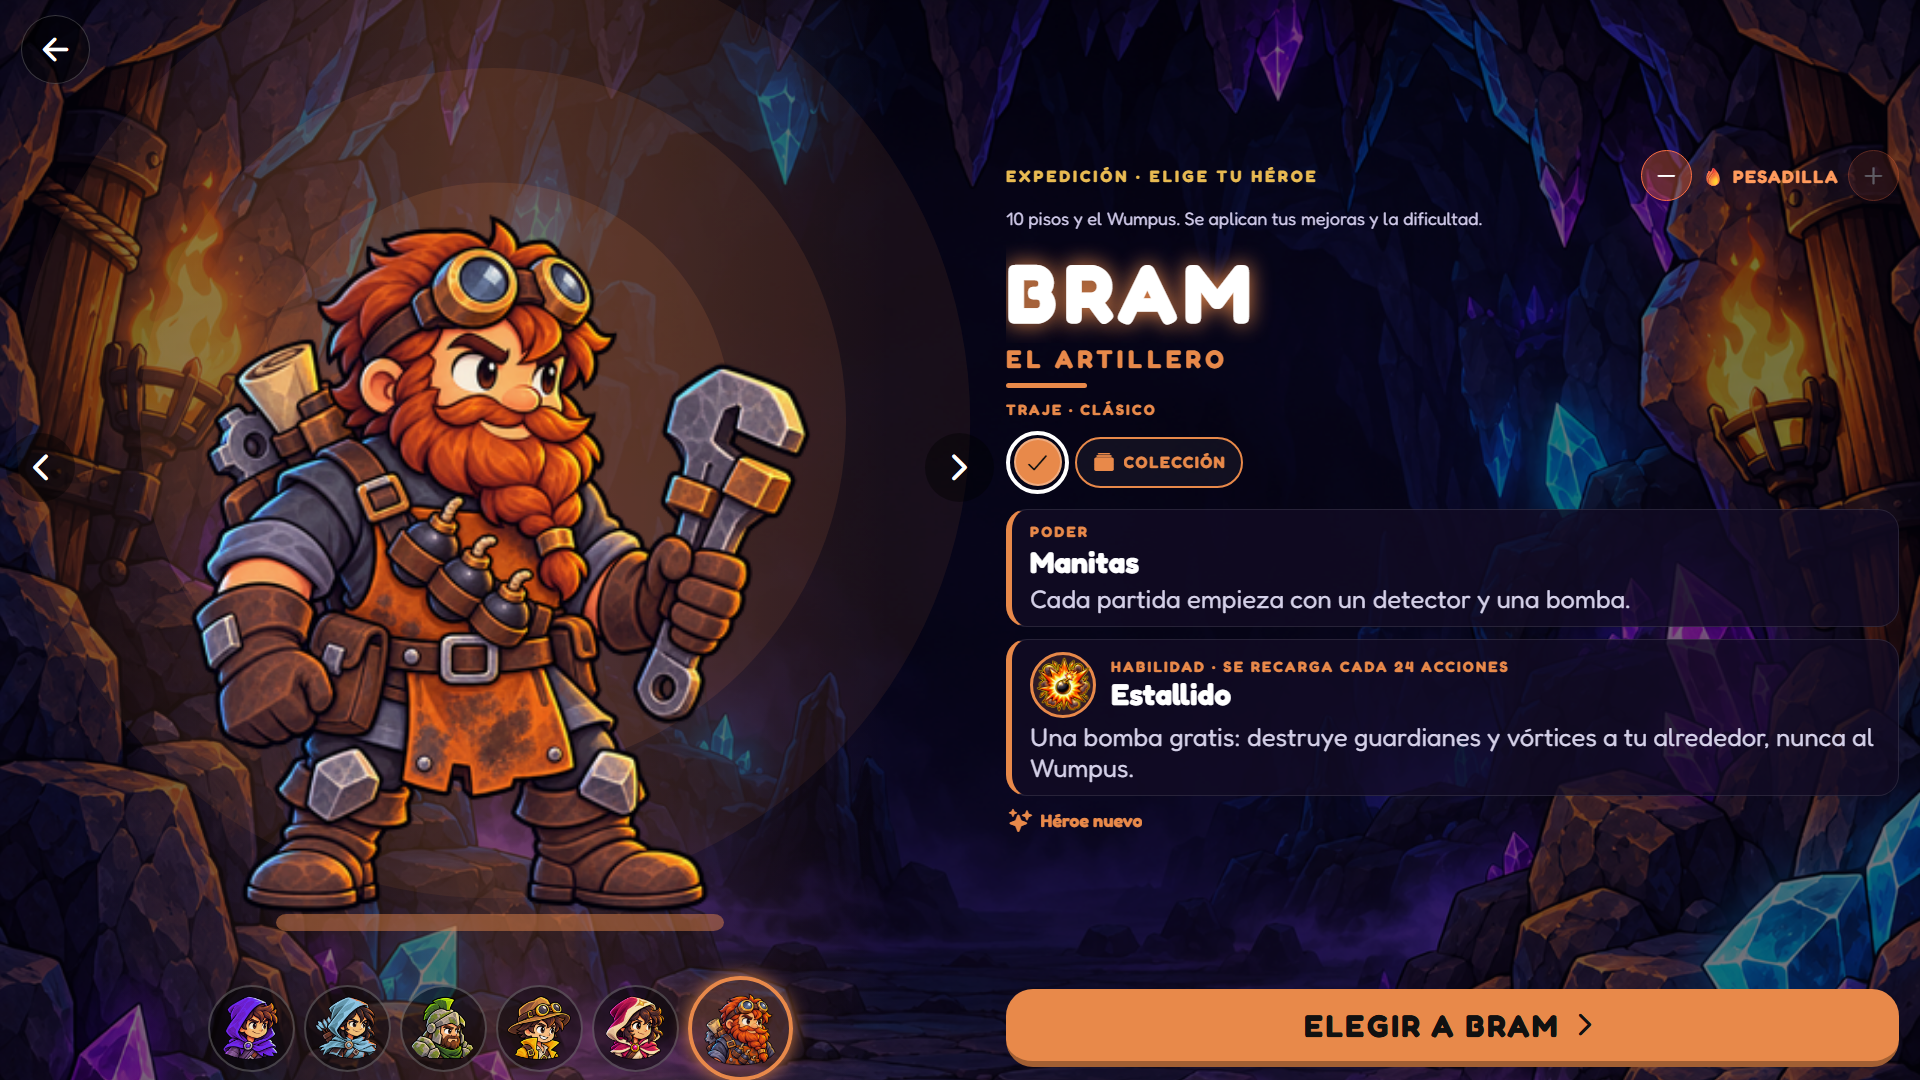
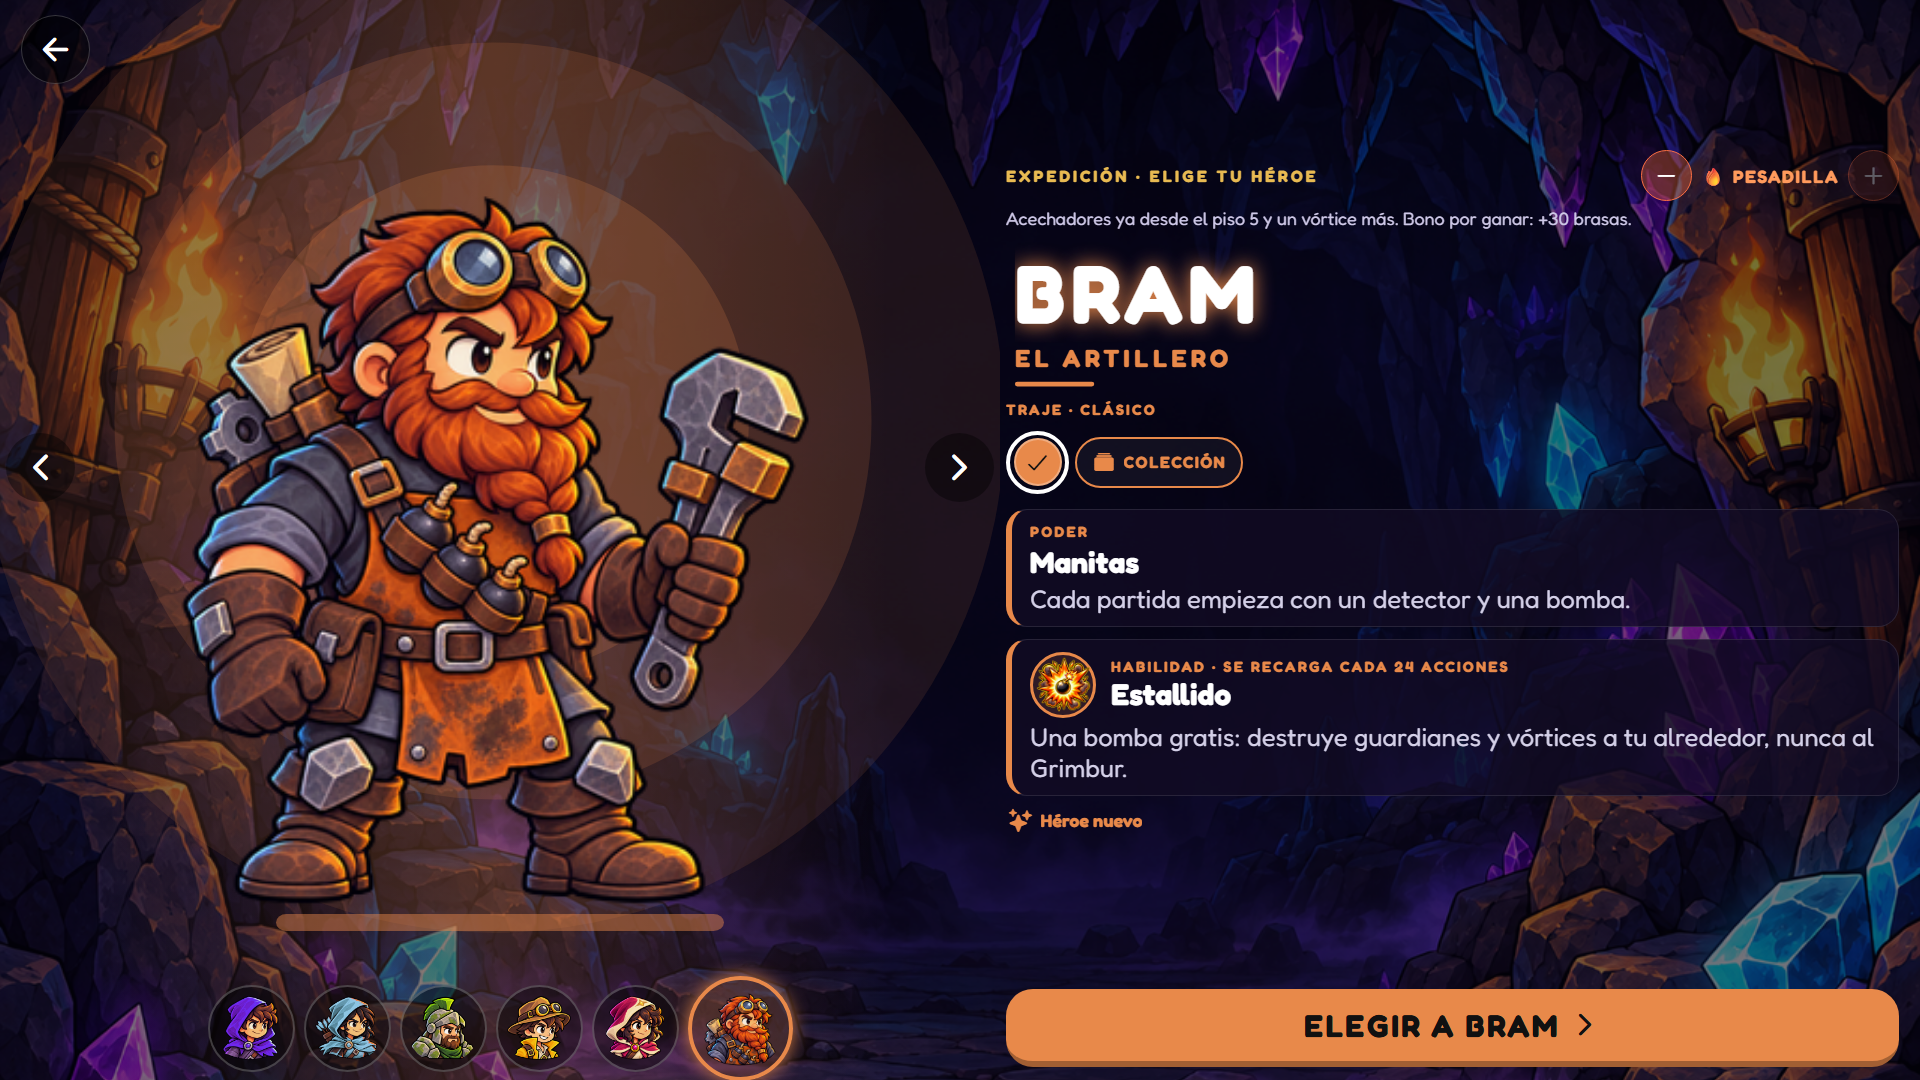
feat(polish): hero breathing and a fully refreshed Grimbur store kit
- The hero breathes while standing still (slow 4% vertical swell, off with
  reduced motion); the step pop and pose swap already existed.
- Feature graphic says GRIMBUR - CAVE OF CLUES (subtitle was the old brand).
- All eight Play screenshots recaptured at 1920x1080 in Spanish with the new
  brand, gold palette and the new animated Grimbur: the two board shots are
  now reproducible via LessonScreen dev params, recorded in the README
  (before, their recipe lived only in a lost commit message).
- 01_wumpus_and_guardians.png renamed to 01_grimbur_and_guardians.png.

tsc clean, 871 tests green.

diff --git a/src/ui/components/BoardView.tsx b/src/ui/components/BoardView.tsx
@@ -107,6 +107,23 @@ const BoardView: React.FC<Props> = memo(
     // Player move animation
     const playerScale = useRef(new Animated.Value(1)).current;
 
+    // The hero breathes while standing still: a slow, tiny vertical swell (off when the player asked for calm).
+    const heroBreath = useRef(new Animated.Value(1)).current;
+    useEffect(() => {
+      if (calm) {
+        heroBreath.setValue(1);
+        return;
+      }
+      const loop = Animated.loop(
+        Animated.sequence([
+          Animated.timing(heroBreath, { toValue: 1.04, duration: 1100, easing: Easing.inOut(Easing.sin), useNativeDriver: true }),
+          Animated.timing(heroBreath, { toValue: 1, duration: 1100, easing: Easing.inOut(Easing.sin), useNativeDriver: true }),
+        ]),
+      );
+      loop.start();
+      return () => loop.stop();
+    }, [calm, heroBreath]);
+
     // A new floor or a restart puts the hero on its start tile: it appears there instead of sliding in from the old spot.
     const lastFloor = useRef({ level, seen: visited.length });
     useEffect(() => {
@@ -358,7 +375,7 @@ const BoardView: React.FC<Props> = memo(
           >
             {/* Both poses stay mounted and are swapped by opacity: swapping the image source would flash */}
             {/* The art is drawn facing right: mirror it for left; up/down lean away from / toward the viewer. */}
-            <View
+            <Animated.View
               style={{
                 width: tileSize * 0.8,
                 height: tileSize * 0.8,
@@ -366,6 +383,7 @@ const BoardView: React.FC<Props> = memo(
                   { scaleX: lastSide.current === "left" ? -1 : 1 },
                   { translateY: currentFacing === "up" ? -tileSize * 0.06 : currentFacing === "down" ? tileSize * 0.05 : 0 },
                   { scale: currentFacing === "up" ? 0.94 : currentFacing === "down" ? 1.05 : 1 },
+                  { scaleY: heroBreath },
                 ],
               }}
             >
@@ -381,7 +399,7 @@ const BoardView: React.FC<Props> = memo(
                   source={attackSource}
                 />
               )}
-            </View>
+            </Animated.View>
           </Animated.View>
 
           {flying && (() => {

diff --git a/scripts/makeFeatureGraphic.py b/scripts/makeFeatureGraphic.py
@@ -15,7 +15,7 @@ FONTS = os.path.join(ROOT, 'node_modules', '@expo-google-fonts', 'fredoka')
 
 W, H = 1024, 500
 TITLE = 'GRIMBUR'
-SUBTITLE = 'ADVENTURES'
+SUBTITLE = 'CAVE OF CLUES'
 TAGLINE = 'Descend. Deduce. Slay the Grimbur.'
 GOLD = (255, 213, 79)
 OUTLINE = (20, 12, 40)

diff --git a/docs/release/store/screenshots/README.md b/docs/release/store/screenshots/README.md
@@ -14,6 +14,12 @@ Están en el orden recomendado para la ficha: las dos primeras son las que se ve
 | 7 | `07_progress.png` | Mi progreso | Track your progress / Sigue tu progreso |
 | 8 | `08_achievements.png` | Logros | 100+ achievements / Más de 100 logros |
 
-Para la ficha en inglés, vuelve a generarlas con el idioma en inglés: `& .\scripts\screenshots.ps1 -Screens ... -Lang en -Sizes 1280x720 -Scale 1.5`
-(ver `scripts/screenshots.ps1`; los parámetros de cada pantalla están en el historial de este commit y en `docs/release/QA_TEST_PLAN.md`).
+Para la ficha en inglés, vuelve a generarlas con el idioma en inglés: `& .\scripts\screenshots.ps1 -Screens ... -Lang en -Sizes 1280x720 -Scale 1.5`.
 Regenerarlas después de cambiar el aspecto del juego, para que no queden desactualizadas.
+
+Parámetros exactos (preset `veteran`, `-Sizes 1280x720 -Scale 1.5`):
+
+- 01: `-Screens LessonScreen -Params '{"lesson":"deduce","devHideBanner":true,"devBiome":"magma","devEntities":[{"index":4,"type":"boss","hp":3},{"index":9,"type":"enemy"},{"index":20,"type":"enemy"},{"index":16,"type":"stalker"},{"index":13,"type":"sleeper"},{"index":7,"type":"pit"},{"index":11,"type":"coin"},{"index":18,"type":"coin"},{"index":22,"type":"shield"}]}'`
+- 02: `-Screens LessonScreen -Params '{"lesson":"deduce","devHideBanner":true,"devBiome":"crystal","devEntities":[{"index":10,"type":"enemy"},{"index":21,"type":"enemy"},{"index":8,"type":"pit"},{"index":5,"type":"coin"},{"index":17,"type":"coin"},{"index":12,"type":"coin"}]}'`
+- 03: `-Screens CoverScreen` · 04/05: `-Screens CharactersScreen -Params '{"devHero":4}'` (Mira) / `'{"devHero":5}'` (Bram)
+- 06/07/08: `-Screens ForgeScreen,ProgressScreen,AchievementsScreen`
